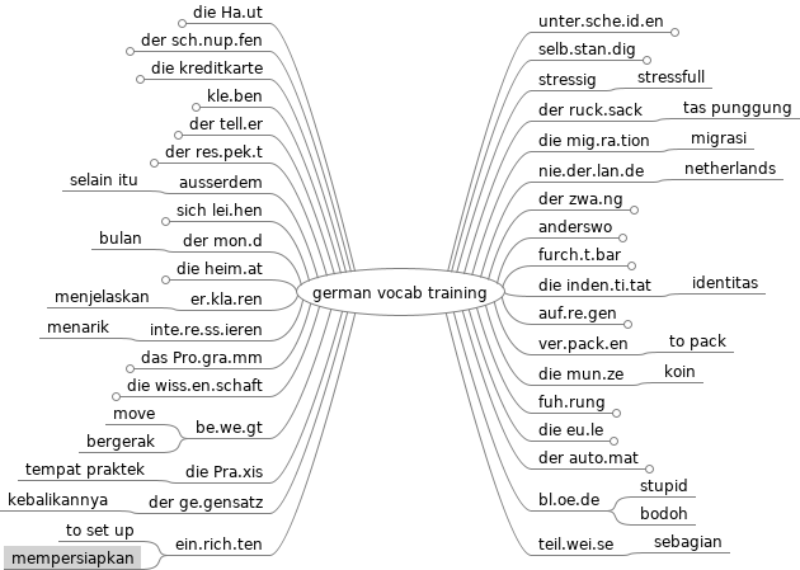
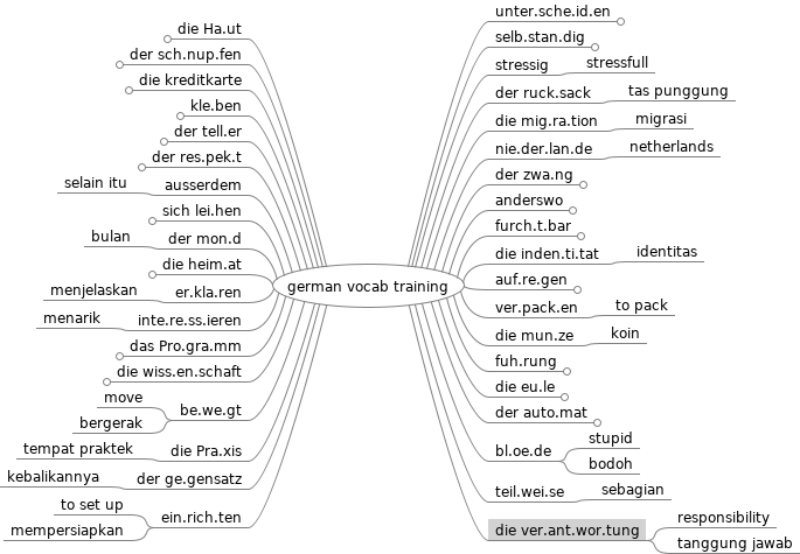
update lecture notes

Changed region(s): [[0.0, 0.0, 1.0, 1.0]]

diff --git a/german vocab training.mm b/german vocab training.mm
@@ -129,5 +129,9 @@
 <node CREATED="1646733364500" ID="ID_911242095" MODIFIED="1646733367008" TEXT="to set up"/>
 <node CREATED="1646733367241" ID="ID_565468204" MODIFIED="1646733370412" TEXT="mempersiapkan"/>
 </node>
+<node CREATED="1646817105205" ID="ID_1273090939" MODIFIED="1646818241313" POSITION="right" TEXT="die ver.ant.wor.tung">
+<node CREATED="1646817114669" ID="ID_1598544124" MODIFIED="1646817125107" TEXT="responsibility"/>
+<node CREATED="1646817125343" ID="ID_1979685768" MODIFIED="1646817128558" TEXT="tanggung jawab"/>
+</node>
 </node>
 </map>
